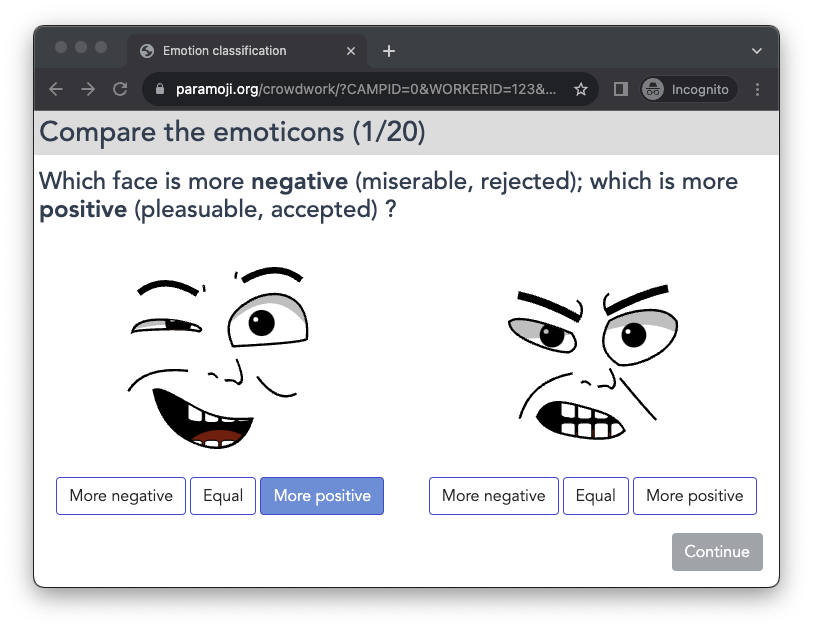
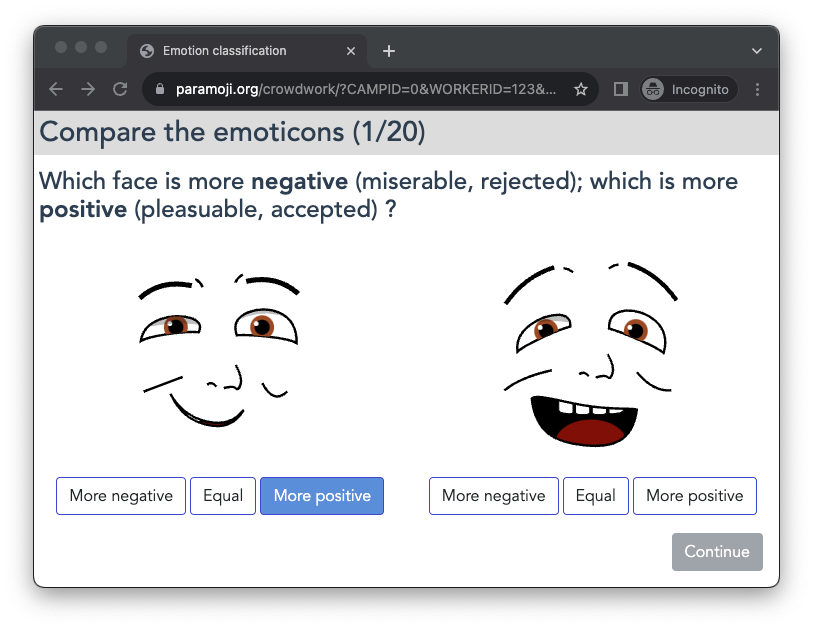
changed some faces

Changed region(s): [[0.615, 0.4229, 0.8303, 0.725], [0.1538, 0.4229, 0.3998, 0.725], [0.1538, 0.4229, 0.246, 0.5437]]

diff --git a/doc/paramoji.tex b/doc/paramoji.tex
@@ -142,7 +142,7 @@ The first two of these dimensions have become the universal backbone of emotion 
 now known as "valence" and "arousal" \cite{circumplex}.
 A much more intense debate formed around the third dimension. This paper follows the nomenclature of "dominance"\cite{dominance_mehrabian}.
 The fourth dimension is ``contempt'', derived from a discovery that this feeling of superiority is not a distinct emotion, but combines differently with positive and negative feelings. \cite{contempt_ekman}.
-As a final dimension I will use ``control', which follows a simplified model for conscious modulation.
+As a final dimension I will use ``control'', which follows a simplified model for conscious modulation.
 Hence, the interpretation of the last dimensions may partly be subject to cultural norms.
 
 It is easy to understand all these dimensions in isolation, but in combination it becomes quickly unclear how to interpret them.
@@ -309,9 +309,13 @@ All combinations of parameters produce sometimes comical, but always valid facia
             \rotatebox{90}{\hspace{1ex}$c = 1.0$} &
             \paramoji{86,19,19,68,100} &
             \paramoji{10,10,10,90,100} &
-            \paramoji{11,72,72,41,100} \\
+            \paramoji{38,72,72,41,100} \\
+            \rotatebox{90}{\hspace{1ex}$c = 0.0$} &
+            \paramoji{86,19,19,68,0} &
+            \paramoji{10,10,10,90,0} &
+            \paramoji{38,72,72,41,0} \\
             \hline\\[-1.8ex]
-            $v$ & 0.9 & 0.1 & 0.1 \\
+            $v$ & 0.9 & 0.1 & 0.4 \\
             $a$ & 0.2 & 0.1 & 0.7 \\
             $d$ & 0.7 & 0.9 & 0.4
         \end{tabular}
@@ -517,9 +521,9 @@ The axis is extended from minimal to maximal values until they reach the boundar
   \begin{center}
     \begin{tabular}{cccc}
         \paramoji{0,43,56,70,40}
-        \paramoji{33,48,52,57,30}
-        \paramoji{67,52,48,43,20}
-        \paramoji{100,57,44,30,10}
+        \paramoji{33,48,55,57,30}
+        \paramoji{67,52,50,43,20}
+        \paramoji{100,57,52,30,10}
     \end{tabular}
   \end{center}
   \caption{Valence}
@@ -742,6 +746,21 @@ function paramoji(v, a1, a2, d, c) {
 }
 \end{verbatim}
 }
+
+\begin{figure}[ht!]
+  \begin{center}
+    \begin{tabular}{cccc}
+        \paramoji{105,138,95,106,-97}
+        \paramoji{166,53,160,105,2}
+        \paramoji{-55,124,126,131,-9}
+        \paramoji{-58,180,0,-25,-9}
+    \end{tabular}
+  \end{center}
+  \caption{Extrapolations}
+  \label{fig:extrapolate}
+\end{figure}
+
+
 
 \section*{Conflict of Interest Statement}
 Author Stefan Dirnstorfer is employed by Thetaris GmbH. The remaining authors declare that the
